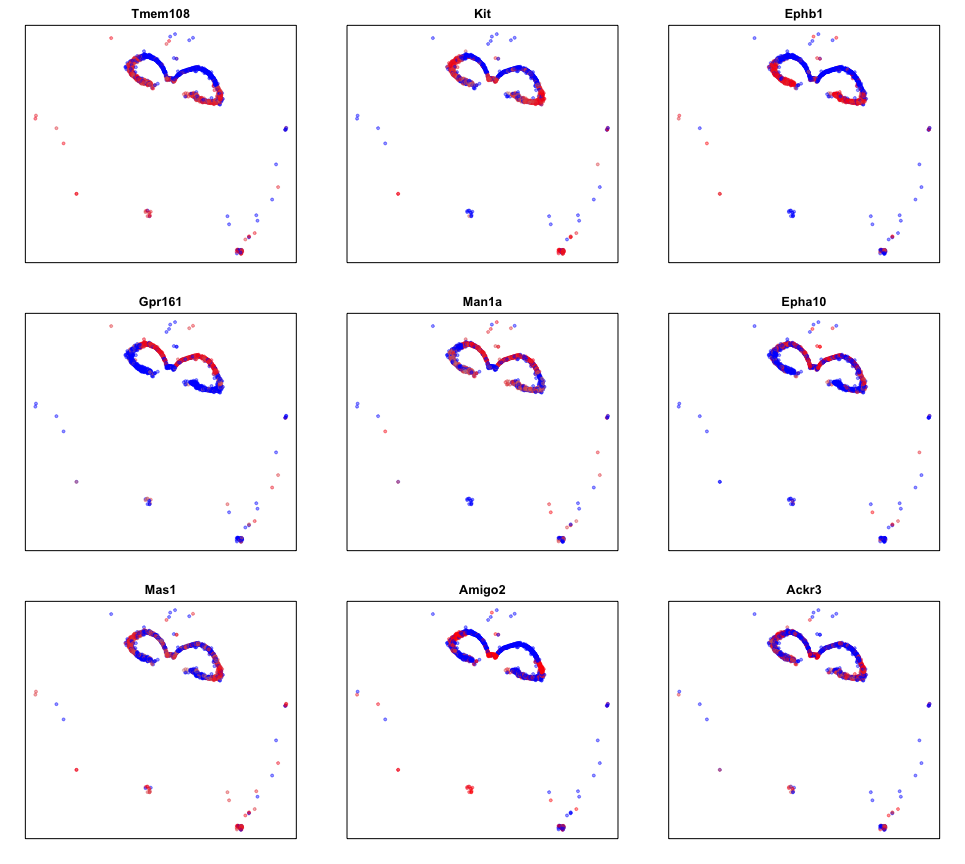
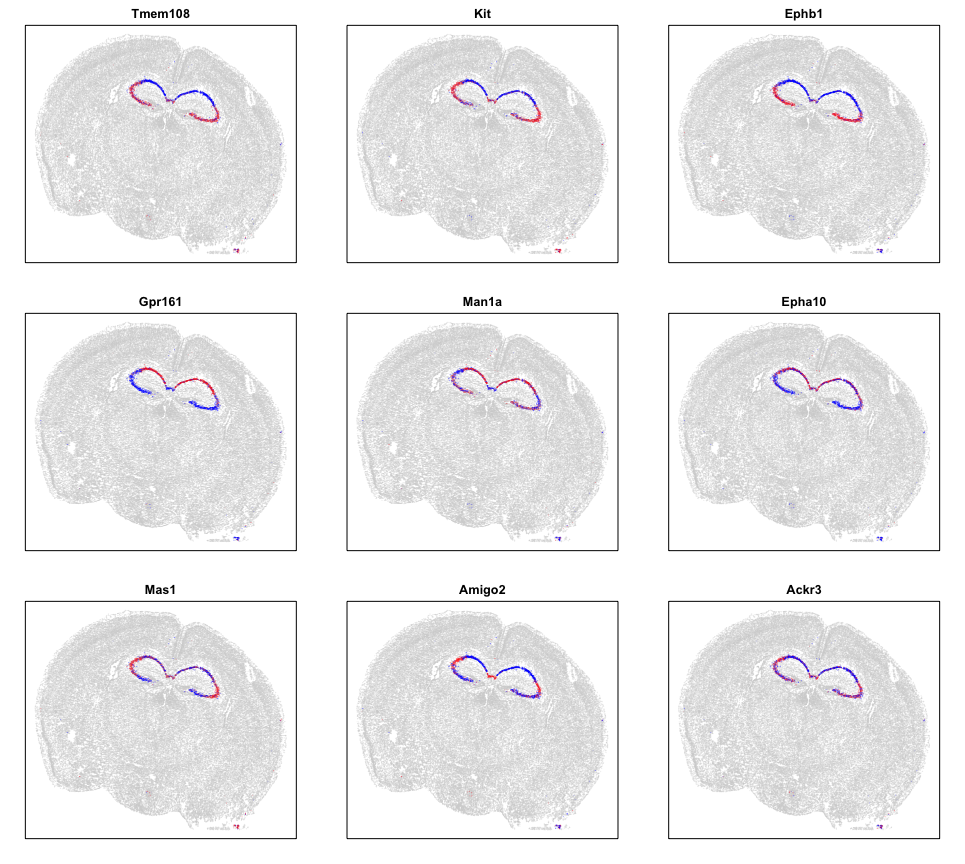
update blog visualize all cells

diff --git a/_posts/2021-06-21-complementing-single-cell-clustering-analysis-with-MERINGUE-spatial-analysis.md b/_posts/2021-06-21-complementing-single-cell-clustering-analysis-with-MERINGUE-spatial-analysis.md
@@ -199,11 +199,16 @@ lapply(levels(ggroup$groups), function(gr) {
   ## select few driven by most cells
   gs <- gs[order(results.filter[gs,]$minPercentCells, decreasing=TRUE)][1:3]
   lapply(gs, function(g) {
+    ## z-score expression within cluster 12 cells
     gexp <- math[g,]
     gexp <- scale(gexp)[,1]
     gexp[gexp > 1.5] <- 1.5
     gexp[gexp < -1.5] <- -1.5
-    MERINGUE::plotEmbedding(posh, col=gexp, main=g)
+    ## set as NAs for rest
+    gexpall <- rep(NA, nrow(pos))
+    names(gexpall) <- rownames(pos)
+    gexpall[names(gexp)] <- gexp
+    MERINGUE::plotEmbedding(pos, col=gexpall, main=g, cex=0.05)
   })
 })
 ```
